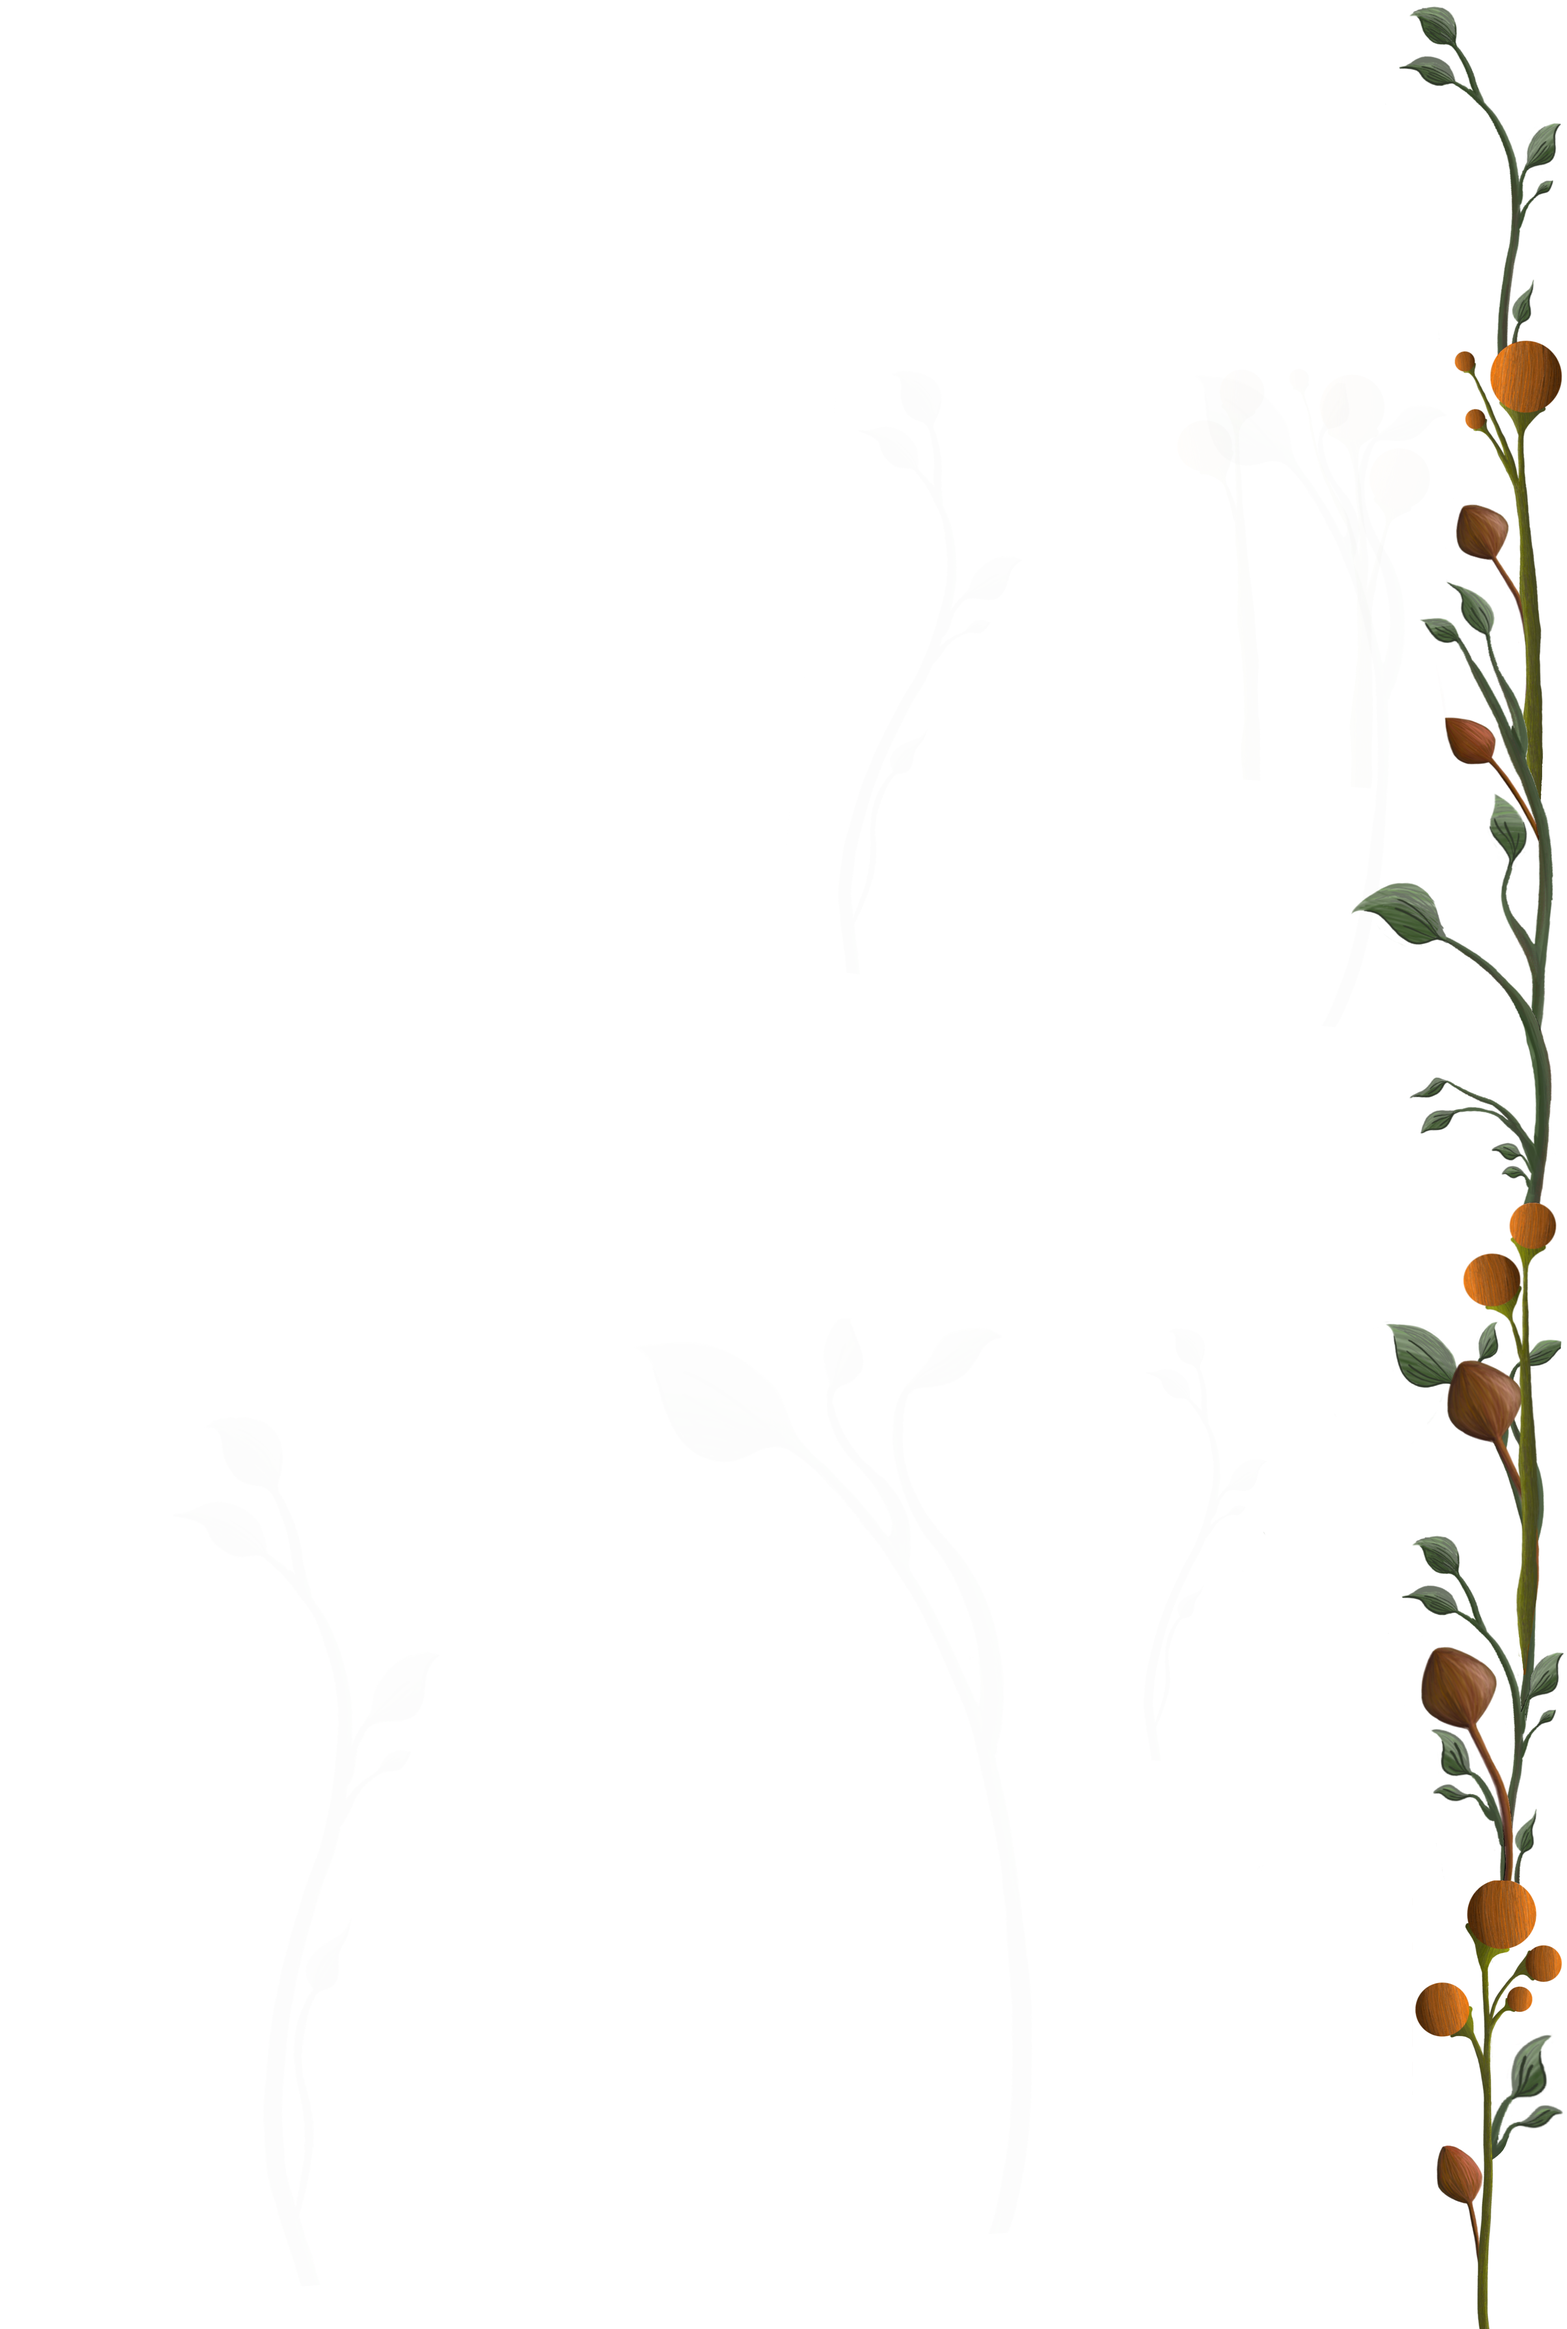
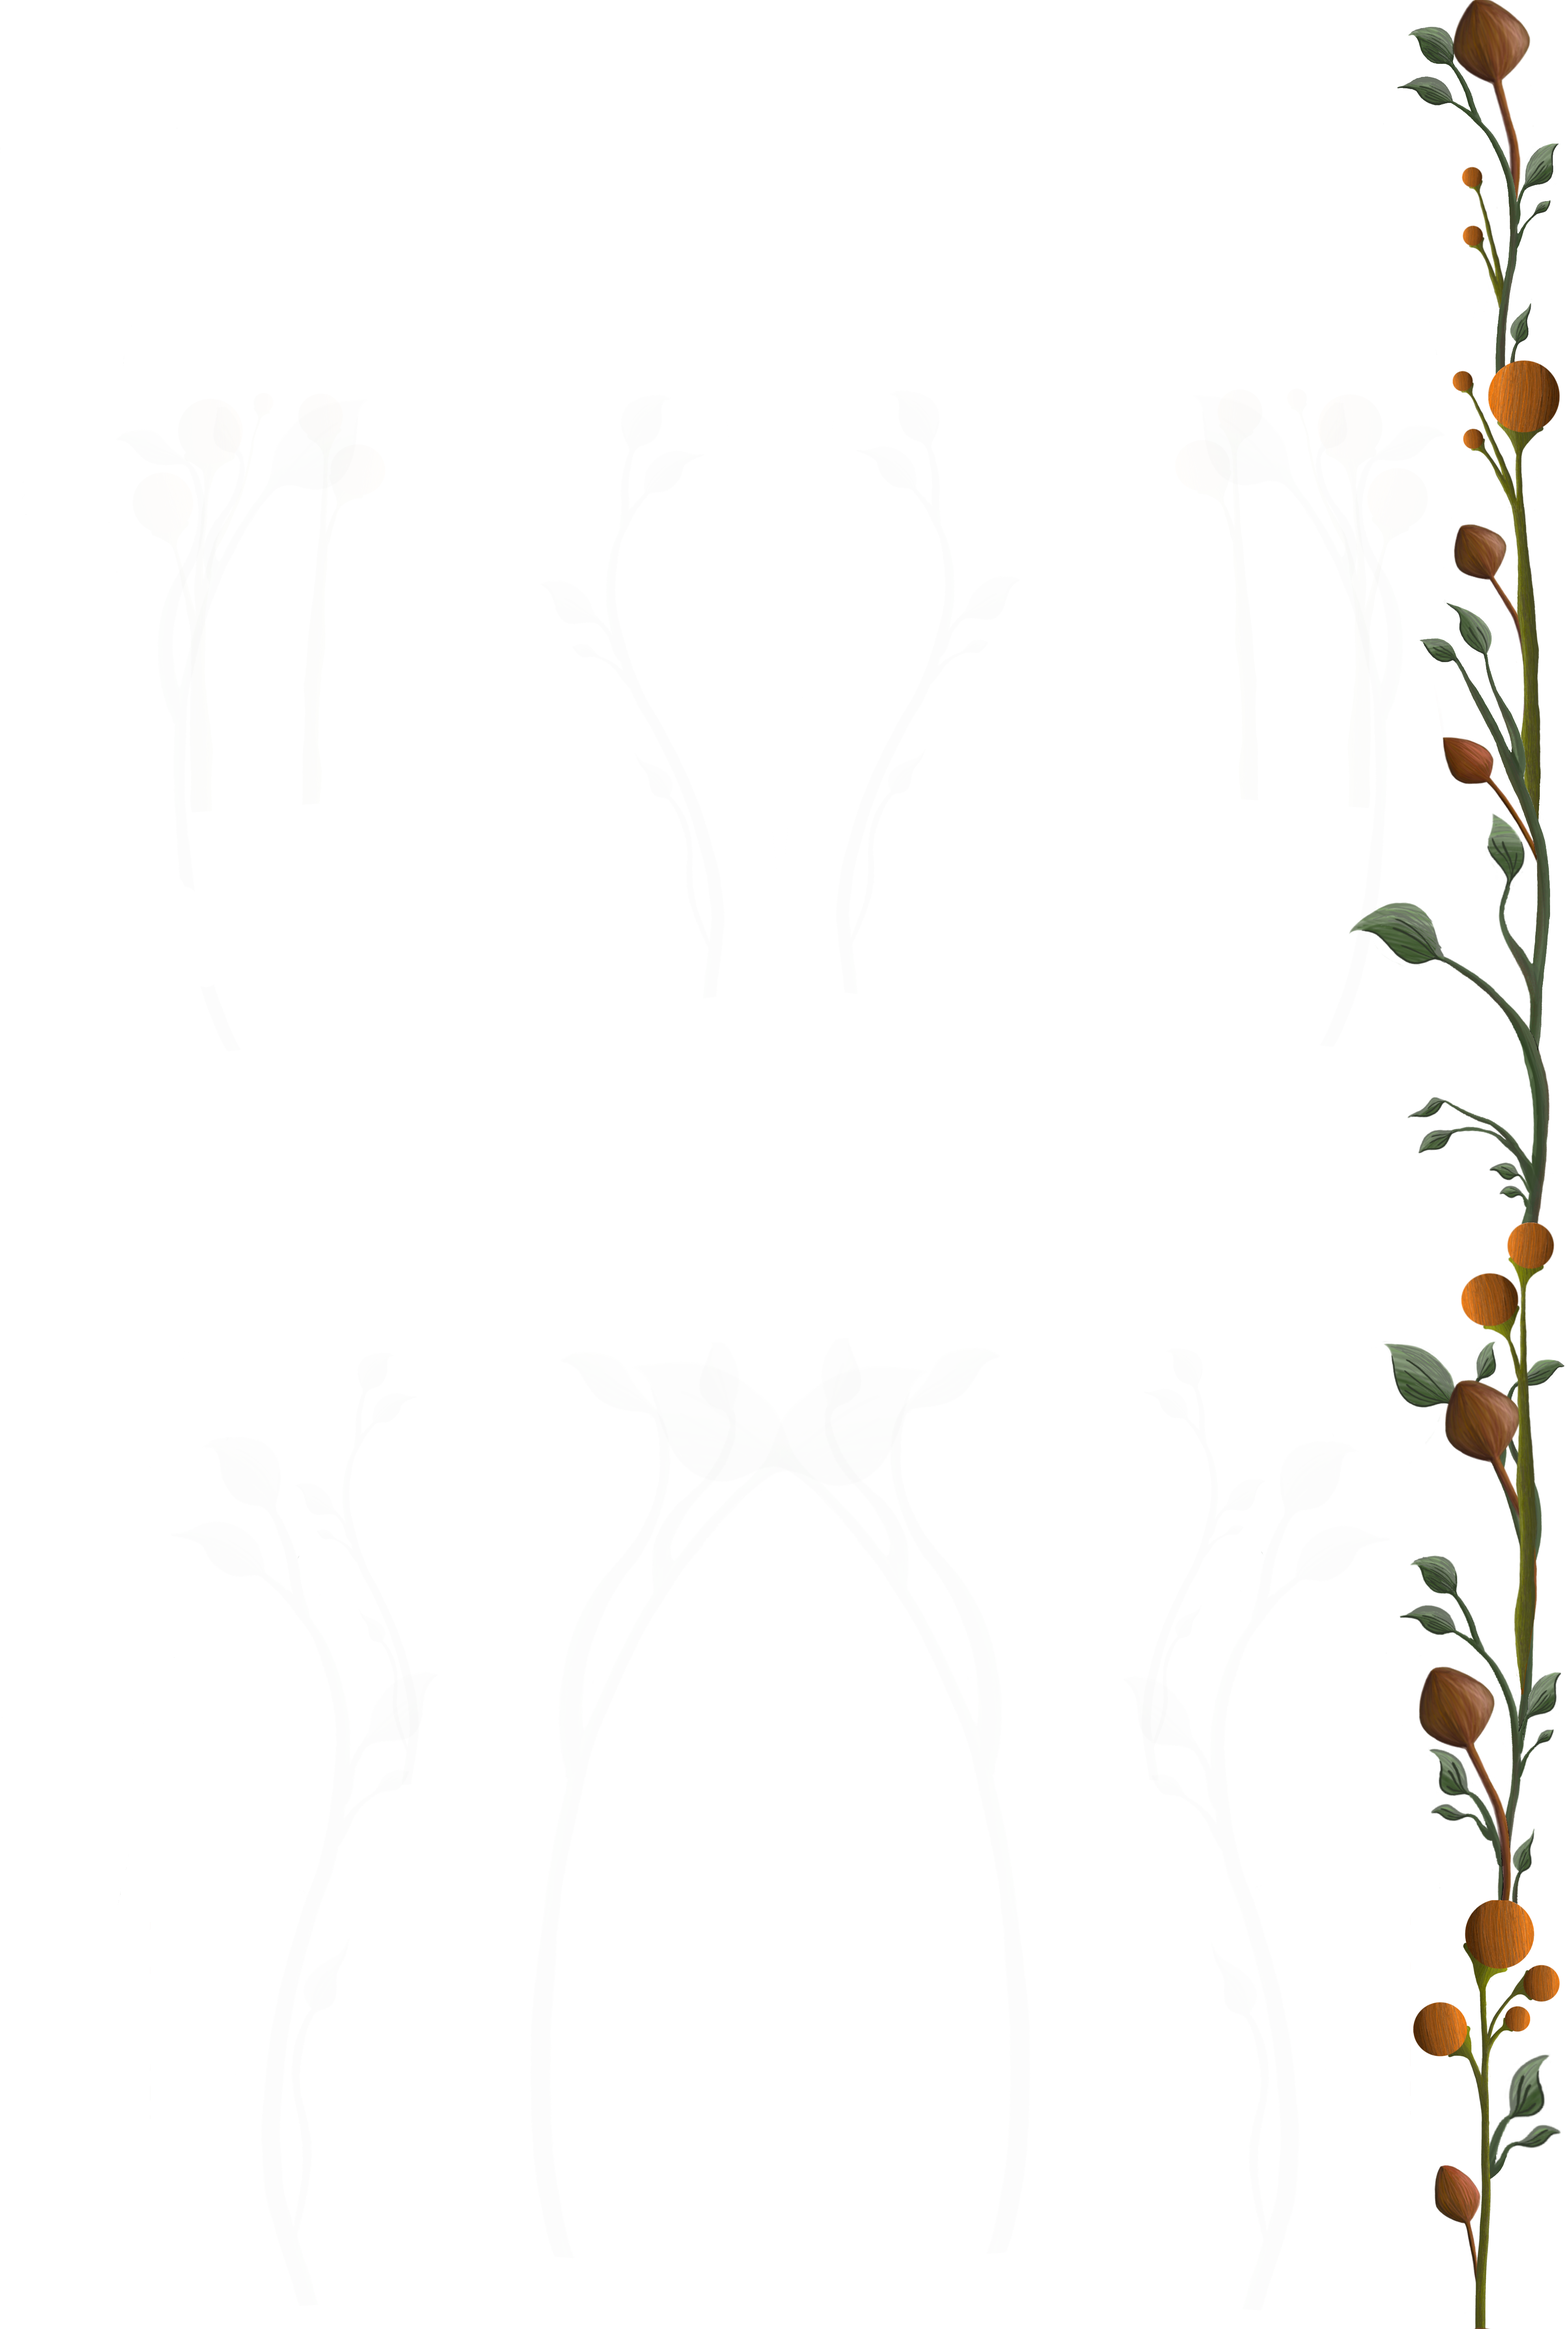
nya bilder på tredje sidan

Changed region(s): [[0.8735, 0.0, 0.9982, 1.0]]

diff --git a/index.html b/index.html
@@ -94,6 +94,19 @@
 
 		}
 
+		.tredje-sidan {
+			width: 100%;
+			height: 100%;
+			background-image: url('tredje-sidan-bilden.png');
+			background-size: 70%;
+			background-repeat: no-repeat;
+			background-position: top center;
+			display: flex;
+			flex-wrap: wrap;
+			justify-content: center;
+			padding-top: 25%;
+		}
+
 		/*.tredje-sidan-boxen {
 			padding: 10px;
 			width: 75%;
@@ -160,7 +173,7 @@
 			<div class="swiper-slide">
 				<div class="wrapper wrapper-slide3">
 					<h1 class="sidrubrik">Datting</h1>
-					<div class="andra-sidan">
+					<div class="tredje-sidan">
 						<div class="andra-sidan-boxen">
 							<h2>Hedvig Mejstedt TRE</h2>
 						</div>
